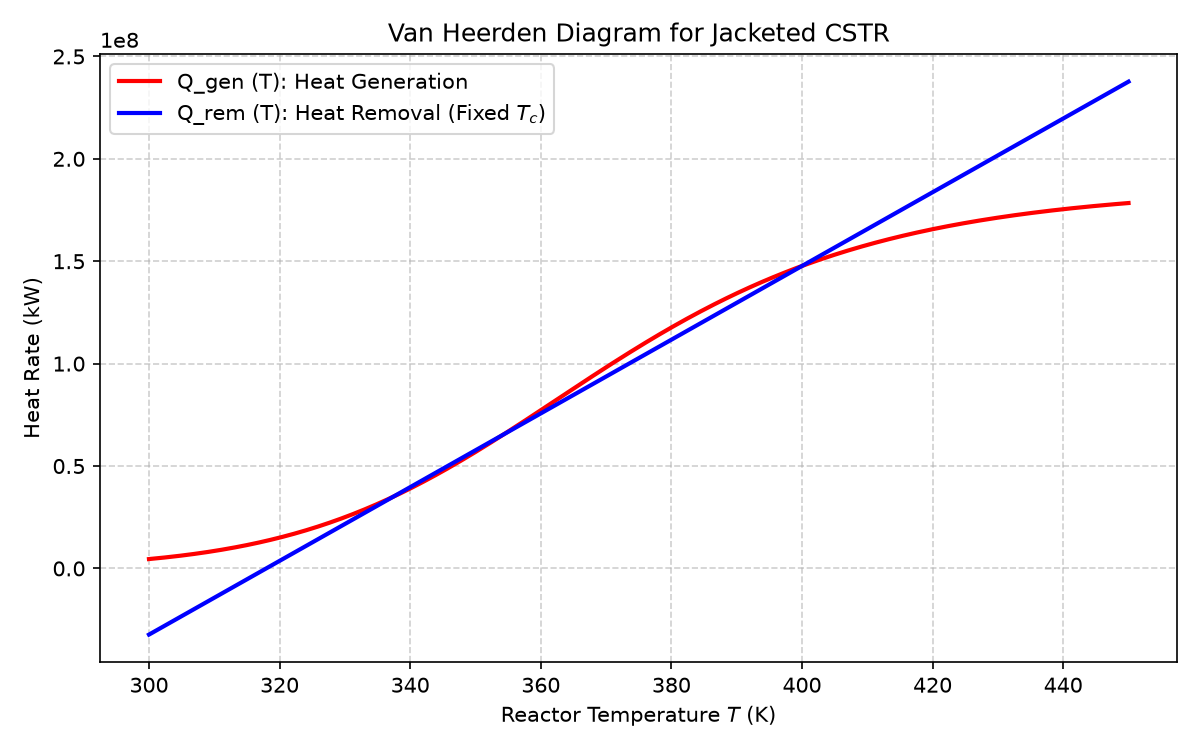
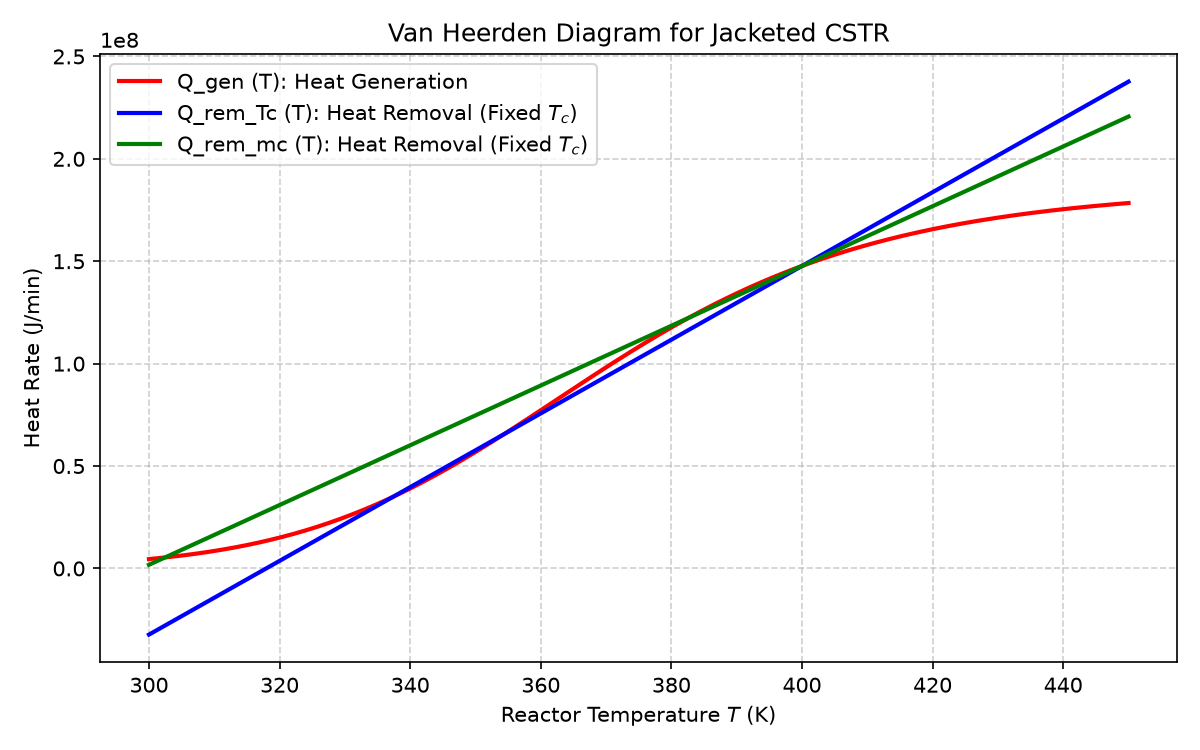
added constant coolant flow rate to the removal function in heat_balance. added plots feor holding coolant flow rate and Temperature constant

diff --git a/analysis/heat_balance.py b/analysis/heat_balance.py
@@ -1,6 +1,5 @@
 import matplotlib.pyplot as plt
 import numpy as np
-import sys
 from pathlib import Path
 
 # --- Reactor and Operating Parameters ---
@@ -12,6 +11,7 @@ C_A0 = 2500.0  # Feed concentration (mol/m^3)
 F_A0 = v0 * C_A0  # Molar feed rate (mol/min)
 T0 = 300.0  # Feed reactant temperature (K)
 Tc_in = 293.15 # Feed Coolant temperature (K)
+mc = 109       # Coolant mass flow rate kg/min
 
 # Fluid and Heat Transfer Properties
 Cp = 4000  # specific heat capacity of feed (J/(kg*K))
@@ -50,8 +50,9 @@ Q_inlet_400 = rho*Cp*v0*(400 - T0)              #Heat duty J/min of inlet stream
 Q_jacket_400 = Q_gen_400 - Q_inlet_400          #Heat duty J/min of cooling jacket T = 400K    
 Tc_400 = 400 - (Q_jacket_400/UA)                #Jacket Temperature at T = 400K
 mc_400 = Q_jacket_400/(Cpc*(Tc_400 - Tc_in))    #Coolant mass flow rate T = 400K
-Q_rem = (rho*Cp*v0*(T - T0) + UA*(T - Tc_400))  #Heat removal J/min
-
+Q_rem_Tc = (rho*Cp*v0*(T - T0) + UA*(T - Tc_400))  #Heat removal J/min
+UAeff = (UA*mc*Cpc)/(mc*Cpc+ UA)
+Q_rem_mc = (rho*Cp*v0*(T - T0)) + UAeff*(T - Tc_in)
 
 print(f"--- Operating Point Verification at T = 400 K ---")
 print(f"Conversion X_A:          {X_A_400 * 100:.2f}%")
@@ -59,17 +60,18 @@ print(f"Heat Generated:          {Q_gen_400:.2f} J/min")
 print(f"Inlet Stream Load:       {Q_inlet_400:.2f} J/min")
 print(f"Required Jacket Duty:    {Q_jacket_400:.2f} J/min")
 print(f"Required Coolant Temp:   {Tc_400:.2f} K ({Tc_400 - 273.15:.2f} °C)")
-print(f"Coolant Mass Flow Rate:  {mc_400:.3f} kg/s\n")
+print(f"Coolant Mass Flow Rate:  {mc_400:.3f} kg/min\n")
 
 
 # --- Plotting ---
 plt.figure(figsize=(8, 5))
 plt.plot(T, Q_gen, "r-", linewidth=2, label="Q_gen (T): Heat Generation")
-plt.plot(T, Q_rem, "b-", linewidth=2, label="Q_rem (T): Heat Removal (Fixed $T_c$)")
+plt.plot(T, Q_rem_Tc, "b-", linewidth=2, label="Q_rem_Tc (T): Heat Removal (Fixed $T_c$)")
+plt.plot(T, Q_rem_mc, "g-", linewidth=2, label="Q_rem_mc (T): Heat Removal (Fixed $T_c$)")
 
 plt.title("Van Heerden Diagram for Jacketed CSTR")
 plt.xlabel("Reactor Temperature $T$ (K)")
-plt.ylabel("Heat Rate (kW)")
+plt.ylabel("Heat Rate (J/min)")
 plt.grid(True, linestyle="--", alpha=0.6)
 plt.legend()
 plt.tight_layout()

diff --git a/notes/week3.md b/notes/week3.md
@@ -6,7 +6,7 @@ Started: October 14th 2026
 non-adiabatic, non-isothermal CSTR with cooling jacket with internal coils using cooling water. Coolant mass flow is manipulated to keep reactor operating temperature at T = 400k. Will build a PI controller.
 ## What broke, and what fixed it
 UA was set to 1000 W/k which didnt make sense. Changed it to 10,000 W/K to stop runaway reactions and making cooling easier. Lots of problems with making sure units were consistent throughout. Had problems with kWatts and Watts. The heat removal and generation plots were not graphing correctly. diagnosed a units problem in the code and realiazed I was calculating the coolant temperature from an array of 500 elements. Fixed temperature at 400 and collected constants at T = 400 K to obatin the coorect coolant temperature and made sure I was using the reference temperature for the arrenhius equation instead of the feed temperature. Made changes to the model as i went: changed model from fixing the fractional conversion to fixing reactor temperature, checked jacket area size for the conductance value and realized cooling coils were needed for that value of UA, 1. if space-time is fixed then conversion is fixed 2. if target conversion is fixed then reactor space time and vessel volume is fixed for a given v0 3. if reactor Temperature is fixed then botht he heat generation terms and heat removal terms are known constants.
-differentiated the heat removal term by keeping Tc constant. Then differentiated the heat removal term with mc constant (mass flow rate of coolant). There was a difference of about 20% bwetween the two numbers. The differentiation with keeping cooolant flow rate constant was much more involved than i initially thought. My numbers and claude's numbers didnt line up on the dQremoved/dT|mc=constant.typed UA = 60000,0 intead of a . python takes that as a 2 member array. after much time finding this bug i typed UA = 6 million instead of 600k. I couldnt figure out why the Tc almost equaled T for the longest time and went through each individual calculation by hand. finally created temp variables to track down individual calculations and realized UA was 6 million in the code. has to be a better way to write zeros
+differentiated the heat removal term by keeping Tc constant. Then differentiated the heat removal term with mc constant (mass flow rate of coolant). There was a difference of about 20% bwetween the two numbers. The differentiation with keeping cooolant flow rate constant was much more involved than i initially thought. My numbers and claude's numbers didnt line up on the dQremoved/dT|mc=constant.typed UA = 60000,0 intead of a . python takes that as a 2 member array. after much time finding this bug i typed UA = 6 million instead of 600k. I couldnt figure out why the Tc almost equaled T for the longest time and went through each individual calculation by hand. finally created temp variables to track down individual calculations and realized UA was 6 million in the code. has to be a better way to write zeros. Used the wrong Cp in the heat removal function on pen and paper and it kept leading to a mismatch with code by a small margin which i attributed to rounding error but claude looked through the math and found exactly where in the function i was using the wrong Cp (coolant instead of feed). In the code everything was right
 <!-- The most valuable section. Every bug you diagnose is a story you can
      tell in an interview. Root cause, not just symptom. -->
 
